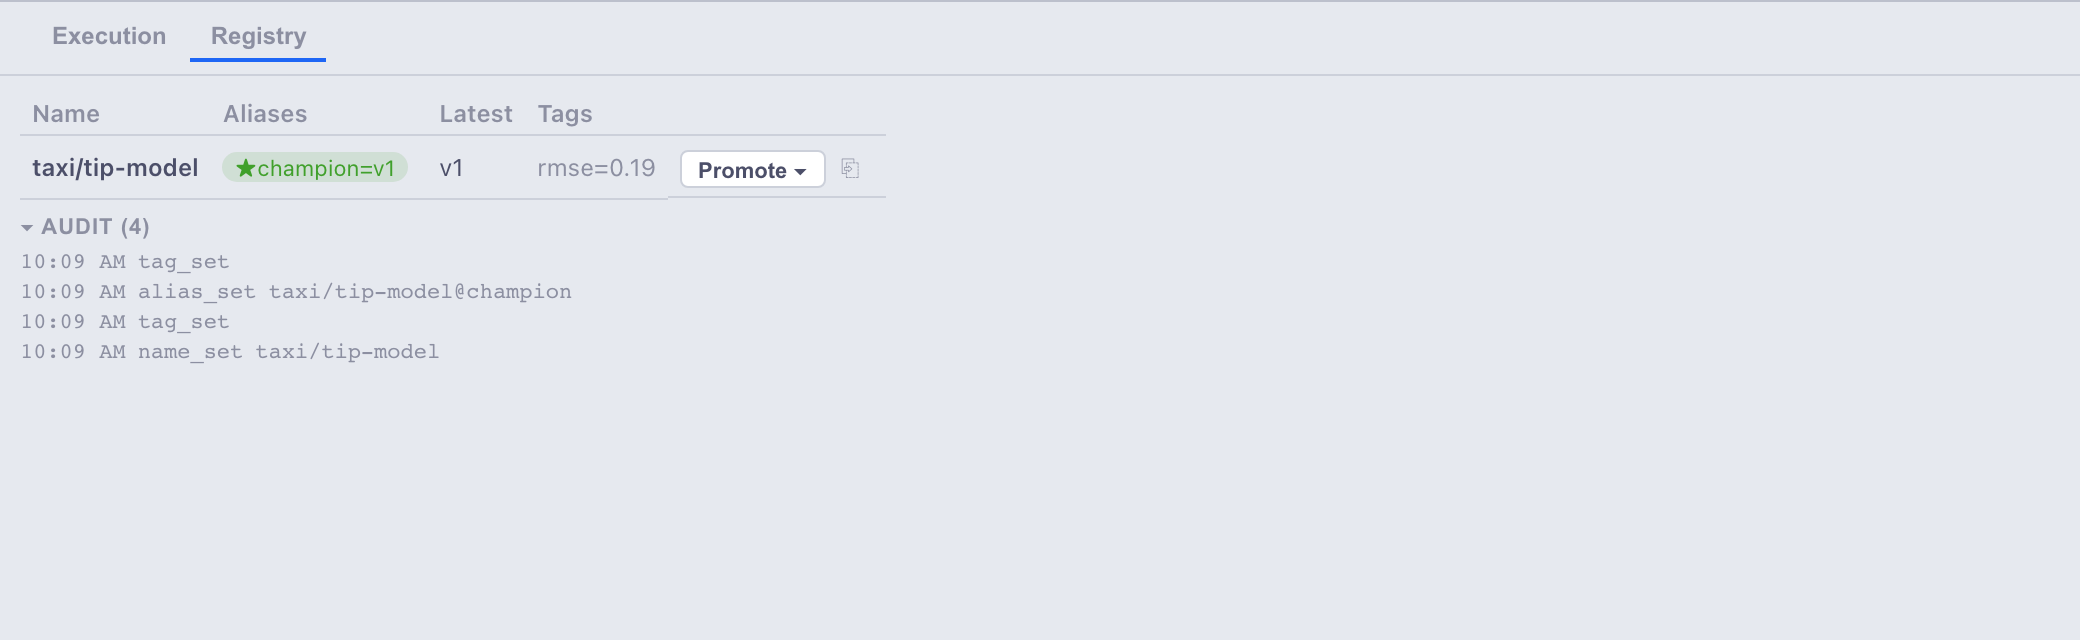
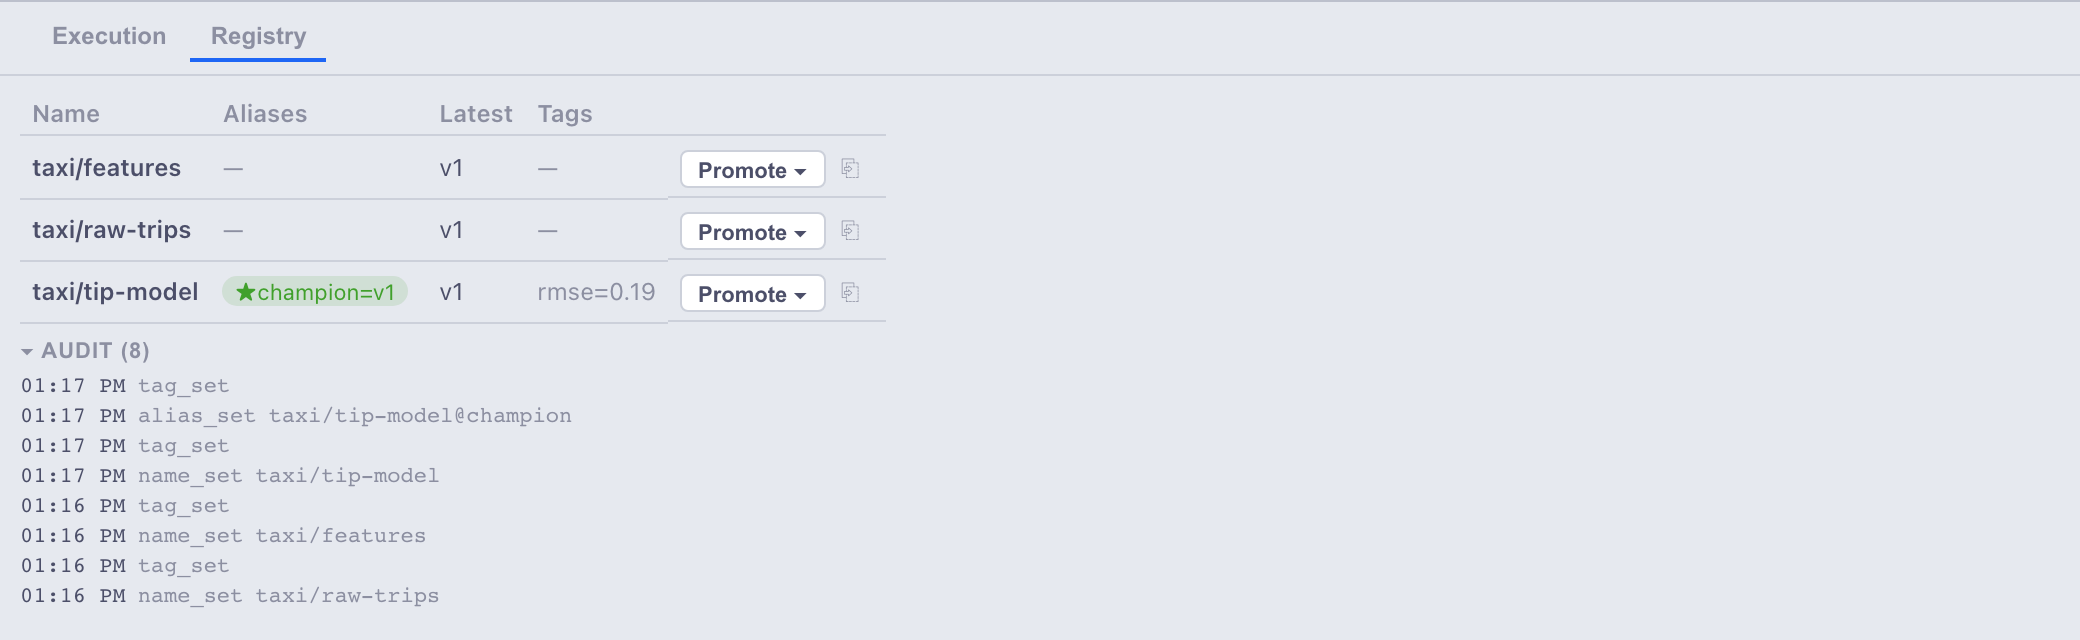
docs: add the lineage screenshot, and fix the theming it exposed
Fills the last TODO(screenshot) in registry-dashboard.md.

The page describes a chain of "model <- features <- scan <- table @
snapshot", so the capture fixture builds one rather than photographing
the single self-contained put it had before: a one-table Iceberg
warehouse, a scan of it, a derived feature set, then the published
model. A one-row lineage would have quietly contradicted the page it
illustrates.

Capturing it in dark mode showed the modal rendering white with light
text on it — illegible. LineageModal.vue asks for var(--bg, #fff) and
var(--text), and neither variable exists: the tokens are --bg-* and
--text-*. So the background always fell back to white while the text
followed the theme.

An audit of every CSS variable in the frontend found 23 undefined names
across 81 references, 25 of them with no fallback at all. This fixes the
18 declarations in the three components the new screenshots show
(LineageModal, RegistryPanel, CellArtifactStrip), retargeting them to
--bg-elevated, --bg-hover and --text-primary. The rest are reported in
the PR rather than swept in here; they are the same class of bug but not
what this change is about.

Two smaller things the fixture change forced:

- The promote-strip shot named `.cell`, which now matches three cells
  because every step of the chain publishes a name. It selects the cell
  whose strip carries taxi/tip-model instead of relying on order.
- shoot() takes a Locator as well as a selector string, since that
[…]

diff --git a/frontend/src/components/RegistryPanel.vue b/frontend/src/components/RegistryPanel.vue
@@ -253,7 +253,7 @@ function tagList(tags: Record<string, string>): string {
 }
 .name {
   font-weight: 600;
-  color: var(--text);
+  color: var(--text-primary);
 }
 .chip {
   display: inline-block;
@@ -282,7 +282,7 @@ function tagList(tags: Record<string, string>): string {
   right: 0;
   top: 100%;
   z-index: 20;
-  background: var(--bg, #fff);
+  background: var(--bg-elevated);
   border: 1px solid var(--border-subtle);
   border-radius: 6px;
   box-shadow: 0 2px 8px rgba(0, 0, 0, 0.15);
@@ -296,10 +296,10 @@ function tagList(tags: Record<string, string>): string {
   background: none;
   border: none;
   cursor: pointer;
-  color: var(--text);
+  color: var(--text-primary);
 }
 .promote-menu button:hover {
-  background: var(--bg-subtle);
+  background: var(--bg-hover);
 }
 .promote {
   display: flex;
@@ -319,16 +319,16 @@ function tagList(tags: Record<string, string>): string {
 }
 .lineage-btn:hover {
   color: var(--accent-primary, #3b82f6);
-  background: var(--bg-subtle);
+  background: var(--bg-hover);
 }
 .btn {
   border: 1px solid var(--border-subtle);
   border-radius: 4px;
   padding: 2px 8px;
-  background: var(--bg, #fff);
+  background: var(--bg-elevated);
   cursor: pointer;
   font-size: 11px;
-  color: var(--text);
+  color: var(--text-primary);
 }
 .btn:disabled {
   opacity: 0.5;
@@ -357,7 +357,7 @@ function tagList(tags: Record<string, string>): string {
   color: var(--text-muted);
 }
 .audit-time {
-  color: var(--text);
+  color: var(--text-primary);
   min-width: 42px;
 }
 .empty {

diff --git a/frontend/src/components/CellArtifactStrip.vue b/frontend/src/components/CellArtifactStrip.vue
@@ -126,7 +126,7 @@ function tagList(tags: Record<string, string>): string {
 }
 .name {
   font-weight: 600;
-  color: var(--text);
+  color: var(--text-primary);
 }
 .chip {
   display: inline-block;
@@ -153,10 +153,10 @@ function tagList(tags: Record<string, string>): string {
   border: 1px solid var(--border-subtle);
   border-radius: 4px;
   padding: 1px 8px;
-  background: var(--bg, #fff);
+  background: var(--bg-elevated);
   cursor: pointer;
   font-size: 11px;
-  color: var(--text);
+  color: var(--text-primary);
 }
 .promote-btn:disabled {
   opacity: 0.5;
@@ -167,7 +167,7 @@ function tagList(tags: Record<string, string>): string {
   right: 0;
   top: 100%;
   z-index: 20;
-  background: var(--bg, #fff);
+  background: var(--bg-elevated);
   border: 1px solid var(--border-subtle);
   border-radius: 6px;
   box-shadow: 0 2px 8px rgba(0, 0, 0, 0.15);
@@ -181,10 +181,10 @@ function tagList(tags: Record<string, string>): string {
   background: none;
   border: none;
   cursor: pointer;
-  color: var(--text);
+  color: var(--text-primary);
 }
 .promote-menu button:hover {
-  background: var(--bg-subtle);
+  background: var(--bg-hover);
 }
 .lineage-btn {
   border: none;
@@ -198,6 +198,6 @@ function tagList(tags: Record<string, string>): string {
 }
 .lineage-btn:hover {
   color: var(--accent-primary, #3b82f6);
-  background: var(--bg-subtle);
+  background: var(--bg-hover);
 }
 </style>

diff --git a/frontend/src/components/LineageModal.vue b/frontend/src/components/LineageModal.vue
@@ -89,7 +89,7 @@ function formatMs(ms: number): string {
   z-index: 3000;
 }
 .lineage-modal {
-  background: var(--bg, #fff);
+  background: var(--bg-elevated);
   border: 1px solid var(--border-subtle);
   border-radius: 8px;
   min-width: 420px;
@@ -108,7 +108,7 @@ function formatMs(ms: number): string {
 }
 .lineage-title {
   font-weight: 600;
-  color: var(--text);
+  color: var(--text-primary);
 }
 .lineage-close {
   background: none;
@@ -141,7 +141,7 @@ function formatMs(ms: number): string {
   color: var(--accent-primary, #3b82f6);
 }
 .llabel {
-  color: var(--text);
+  color: var(--text-primary);
 }
 .lver {
   color: var(--text-muted);

diff --git a/scripts/capture_docs_shots.py b/scripts/capture_docs_shots.py
@@ -302,25 +302,85 @@ def _strata(*args: str, cwd: Path | None = None) -> None:
     )
 
 
-# The registry walkthrough's fixture: one cell that trains a model and
-# publishes it under a name. Kept here rather than in ``examples/`` because it
-# exists only to give the registry surfaces something to show.
-REGISTRY_CELL = """\
+# The registry walkthrough's fixture. The page shows a lineage chain of
+# "model <- features <- scan <- table @ snapshot", so the fixture builds one for
+# real: a scan of an Iceberg table, a derived feature set, then the published
+# model. A single self-contained put would photograph a one-row lineage and
+# quietly contradict the page it illustrates.
+REGISTRY_CELLS = [
+    """\
+raw = strata.materialize(
+    inputs=[TABLE_URI],
+    transform={"ref": "scan@v1", "params": {}},
+    name="taxi/raw-trips",
+)
+print(raw.uri)
+""",
+    """\
+features = strata.put(
+    inputs=[raw.uri],
+    transform={"ref": "tip-features@v1"},
+    data={"fare": [12.5, 8.0, 22.25], "distance": [3.1, 1.4, 7.8]},
+    name="taxi/features",
+)
+print(features.uri)
+""",
+    """\
 import numpy as np
 from sklearn.linear_model import LinearRegression
 
-X = np.array([[1.0], [2.0], [3.0], [4.0]])
-y = np.array([2.0, 4.1, 5.9, 8.2])
+X = np.array([[3.1], [1.4], [7.8]])
+y = np.array([2.4, 1.1, 4.6])
 model = LinearRegression().fit(X, y)
 
 art = strata.put(
-    inputs=[],
+    inputs=[features.uri],
     transform={"ref": "train-tip-model@v1"},
     data={"coef": model.coef_.tolist(), "intercept": [float(model.intercept_)]},
     name="taxi/tip-model",
 )
 print(art.uri)
-"""
+""",
+]
+
+
+def build_warehouse(root: Path) -> str:
+    """A one-table Iceberg warehouse, so the lineage chain has a real root.
+
+    Mirrors the ``temp_warehouse`` test fixture. Small on purpose: the shot
+    needs a table with a snapshot, not a realistic dataset.
+    """
+    import pyarrow as pa
+    from pyiceberg.catalog.sql import SqlCatalog
+    from pyiceberg.schema import Schema
+    from pyiceberg.types import DoubleType, LongType, NestedField
+
+    warehouse = root / "warehouse"
+    warehouse.mkdir(parents=True, exist_ok=True)
+    catalog = SqlCatalog(
+        "strata",
+        uri=f"sqlite:///{(warehouse / 'catalog.db').as_posix()}",
+        warehouse=warehouse.as_uri(),
+    )
+    catalog.create_namespace("taxi")
+    table = catalog.create_table(
+        "taxi.trips",
+        Schema(
+            NestedField(1, "trip_id", LongType(), required=False),
+            NestedField(2, "fare", DoubleType(), required=False),
+            NestedField(3, "distance", DoubleType(), required=False),
+        ),
+    )
+    table.append(
+        pa.table(
+            {
+                "trip_id": pa.array(range(200), type=pa.int64()),
+                "fare": pa.array([5.0 + i * 0.25 for i in range(200)], type=pa.float64()),
+                "distance": pa.array([1.0 + i * 0.05 for i in range(200)], type=pa.float64()),
+            }
+        )
+    )
+    return f"{warehouse.as_uri()}#taxi.trips"
 
 
 def _scaffold(root: Path, name: str, deps: tuple[str, ...], cells: list[str]) -> Path:
@@ -349,7 +409,13 @@ def build_fixtures(root: Path) -> tuple[Path, Path]:
         root, "iris", ("pandas", "scikit-learn", "matplotlib"), extract_quickstart_cells()
     )
     _strata("run", str(iris))
-    registry = _scaffold(root, "registry", ("scikit-learn",), [REGISTRY_CELL])
+
+    # The scan cell needs the table URI, and a cell's source is the only thing
+    # the harness carries in — so bind it as a literal rather than an env var,
+    # which would also land in the screenshot as unexplained indirection.
+    table_uri = build_warehouse(root)
+    cells = [REGISTRY_CELLS[0].replace("TABLE_URI", repr(table_uri)), *REGISTRY_CELLS[1:]]
+    registry = _scaffold(root, "registry", ("scikit-learn",), cells)
     return iris, registry
 
 

diff --git a/docs/notebook/registry-dashboard.md b/docs/notebook/registry-dashboard.md
@@ -142,8 +142,12 @@ model ← features ← scan ← table @ snapshot
 - the same chain `strata artifact lineage` prints on the CLI, as an interactive
 view. It answers "which snapshot trained this model?" in one click.
 
-<!-- TODO(screenshot): the lineage view/modal showing the model ← features ← scan
-     ← table @ snapshot chain. -->
+![The lineage view for taxi/tip-model: the training transform above the feature
+set, the scan below it, and the Iceberg table at the
+root.](../assets/registry-lineage-light.png#only-light)
+![The lineage view for taxi/tip-model: the training transform above the feature
+set, the scan below it, and the Iceberg table at the
+root.](../assets/registry-lineage-dark.png#only-dark)
 
 ---
 

diff --git a/docs/assets/README.md b/docs/assets/README.md
@@ -23,6 +23,7 @@ result alongside that change.
 | `cascade-stale-{light,dark}.png` | Web UI | Notebook quickstart, step 5 |
 | `registry-promote-strip-{light,dark}.png` | Web UI | Registry dashboard, step 3 |
 | `registry-tab-{light,dark}.png` | Web UI | Registry dashboard, step 5 |
+| `registry-lineage-{light,dark}.png` | Web UI | Registry dashboard, step 7 |
 | `tui-layout.svg` | TUI | Terminal viewer |
 | `tui-agent-running.svg` | TUI | Driving a notebook with a coding agent |
 | `agent-demo.gif` | Screen recording | Not yet recorded - see below |
